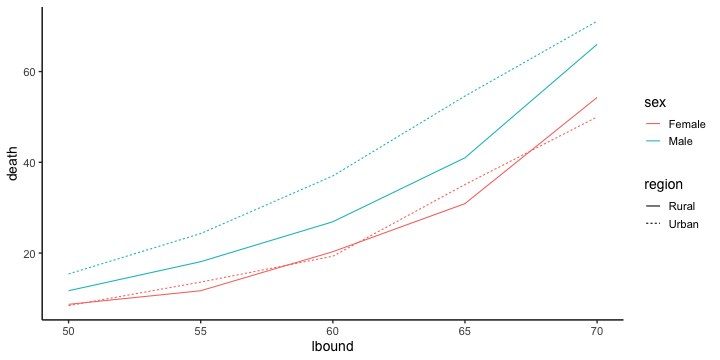
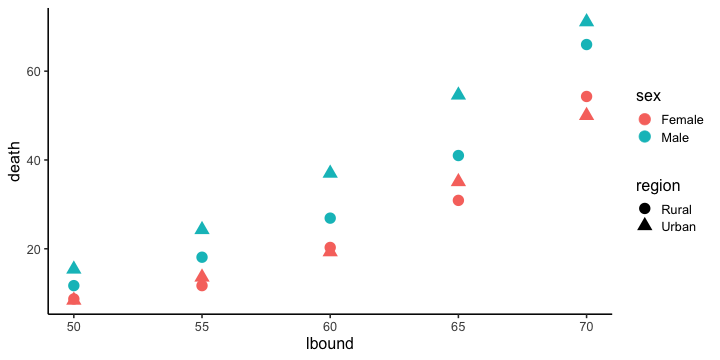
:beer: Makino Lab R Lector 2

diff --git a/makino2019r/3-tidy-data.html b/makino2019r/3-tidy-data.html
@@ -1004,11 +1004,12 @@ purrr<span class="o">::</span>map<span class="p">(</span>files<span class="p">,<
 </section>
 <section>
 <h2 id="example-vadeaths">Example: <code>VADeaths</code></h2>
-<div class="highlight"><pre class="chroma"><code class="language-r" data-lang="r"><span class="kp">as.data.frame</span><span class="p">(</span>VADeaths<span class="p">)</span> <span class="o">%&gt;%</span>              <span class="c1"># data.frameに変換</span>
+<div class="highlight"><pre class="chroma"><code class="language-r" data-lang="r">va_deaths <span class="o">=</span> <span class="kp">as.data.frame</span><span class="p">(</span>VADeaths<span class="p">)</span> <span class="o">%&gt;%</span>  <span class="c1"># data.frameに変換</span>
   tibble<span class="o">::</span>rownames_to_column<span class="p">(</span><span class="s">&#34;age&#34;</span><span class="p">)</span> <span class="o">%&gt;%</span>  <span class="c1"># 行名を列に</span>
   pivot_longer<span class="p">(</span><span class="o">-</span>age<span class="p">)</span> <span class="o">%&gt;%</span>                 <span class="c1"># age以外を移動して縦長化</span>
   separate<span class="p">(</span>name<span class="p">,</span> <span class="kt">c</span><span class="p">(</span><span class="s">&#34;region&#34;</span><span class="p">,</span> <span class="s">&#34;sex&#34;</span><span class="p">))</span> <span class="o">%&gt;%</span> <span class="c1"># 新しいname列を分割</span>
-  separate<span class="p">(</span>age<span class="p">,</span> <span class="kt">c</span><span class="p">(</span><span class="s">&#34;lbound&#34;</span><span class="p">,</span> <span class="s">&#34;ubound&#34;</span><span class="p">),</span> convert <span class="o">=</span> <span class="kc">TRUE</span><span class="p">)</span></code></pre></div>
+  separate<span class="p">(</span>age<span class="p">,</span> <span class="kt">c</span><span class="p">(</span><span class="s">&#34;lbound&#34;</span><span class="p">,</span> <span class="s">&#34;ubound&#34;</span><span class="p">),</span> <span class="s">&#34;-&#34;</span><span class="p">,</span> convert <span class="o">=</span> <span class="kc">TRUE</span><span class="p">)</span> <span class="o">%&gt;%</span>
+  <span class="kp">print</span><span class="p">()</span>                                <span class="c1"># 下限と上限を分離</span></code></pre></div>
 <pre><code>   lbound ubound region    sex value
     &lt;int&gt;  &lt;int&gt;  &lt;chr&gt;  &lt;chr&gt; &lt;dbl&gt;
  1     50     54  Rural   Male  11.7
@@ -1052,9 +1053,8 @@ purrr<span class="o">::</span>map<span class="p">(</span>files<span class="p">,<
 <h2 id="example-vadeaths">Example: <code>VADeaths</code></h2>
 <div class="highlight"><pre class="chroma"><code class="language-r" data-lang="r">va_deaths <span class="o">%&gt;%</span>
   ggplot<span class="p">(</span>aes<span class="p">(</span>lbound<span class="p">,</span> death<span class="p">))</span> <span class="o">+</span>
-  geom_line<span class="p">(</span>aes<span class="p">(</span>group <span class="o">=</span> <span class="kp">as.factor</span><span class="p">(</span>region<span class="p">)</span><span class="o">:</span><span class="kp">as.factor</span><span class="p">(</span>sex<span class="p">),</span>
-                color <span class="o">=</span> sex<span class="p">,</span> linetype <span class="o">=</span> region<span class="p">))</span> <span class="o">+</span>
-  theme_classic<span class="p">(</span>base_size <span class="o">=</span> <span class="m">14</span><span class="p">)</span></code></pre></div>
+  geom_point<span class="p">(</span>aes<span class="p">(</span>color <span class="o">=</span> sex<span class="p">,</span> shape <span class="o">=</span> region<span class="p">),</span> size <span class="o">=</span> <span class="m">5</span><span class="p">)</span> <span class="o">+</span>
+  theme_classic<span class="p">(</span>base_size <span class="o">=</span> <span class="m">16</span><span class="p">)</span></code></pre></div>
 <p><img src="figure/vadeaths_plot-1.png" alt="plot of chunk vadeaths_plot"></p>
 
 </section>
@@ -1062,18 +1062,20 @@ purrr<span class="o">::</span>map<span class="p">(</span>files<span class="p">,<
 <h2 id="visualize-and-summarize-anscombe">Visualize and summarize <code>anscombe</code></h2>
 
 <p>4組のx-yは、平均・分散・相関係数がほぼ同じ？</p>
-<div class="highlight"><pre class="chroma"><code class="language-r" data-lang="r"><span class="kp">print</span><span class="p">(</span>anscombe<span class="p">)</span></code></pre></div>
-<pre><code>      x1    x2    x3    x4    y1    y2    y3    y4
-   &lt;dbl&gt; &lt;dbl&gt; &lt;dbl&gt; &lt;dbl&gt; &lt;dbl&gt; &lt;dbl&gt; &lt;dbl&gt; &lt;dbl&gt;
- 1    10    10    10     8  8.04  9.14  7.46  6.58
- 2     8     8     8     8  6.95  8.14  6.77  5.76
- 3    13    13    13     8  7.58  8.74 12.74  7.71
- 4     9     9     9     8  8.81  8.77  7.11  8.84
---                                                
- 8     4     4     4    19  4.26  3.10  5.39 12.50
- 9    12    12    12     8 10.84  9.13  8.15  5.56
-10     7     7     7     8  4.82  7.26  6.42  7.91
-11     5     5     5     8  5.68  4.74  5.73  6.89
+<div class="highlight"><pre class="chroma"><code class="language-r" data-lang="r">anscombe <span class="o">%&gt;%</span>
+  rowid_to_column<span class="p">(</span><span class="s">&#34;id&#34;</span><span class="p">)</span>              <span class="c1"># IDをつけておく</span>
+                                     <span class="c1"># x y で始まる列の値を移して縦長に</span></code></pre></div>
+<pre><code>      id    x1    x2    x3    x4    y1    y2    y3    y4
+   &lt;int&gt; &lt;dbl&gt; &lt;dbl&gt; &lt;dbl&gt; &lt;dbl&gt; &lt;dbl&gt; &lt;dbl&gt; &lt;dbl&gt; &lt;dbl&gt;
+ 1     1    10    10    10     8  8.04  9.14  7.46  6.58
+ 2     2     8     8     8     8  6.95  8.14  6.77  5.76
+ 3     3    13    13    13     8  7.58  8.74 12.74  7.71
+ 4     4     9     9     9     8  8.81  8.77  7.11  8.84
+--                                                      
+ 8     8     4     4     4    19  4.26  3.10  5.39 12.50
+ 9     9    12    12    12     8 10.84  9.13  8.15  5.56
+10    10     7     7     7     8  4.82  7.26  6.42  7.91
+11    11     5     5     5     8  5.68  4.74  5.73  6.89
 </code></pre>
 
 <p>ggplot does not accept this format. Let&rsquo;s transformt it.</p>
@@ -1085,21 +1087,69 @@ purrr<span class="o">::</span>map<span class="p">(</span>files<span class="p">,<
 <p>4組のx-yは、平均・分散・相関係数がほぼ同じ？</p>
 <div class="highlight"><pre class="chroma"><code class="language-r" data-lang="r">anscombe <span class="o">%&gt;%</span>
   rowid_to_column<span class="p">(</span><span class="s">&#34;id&#34;</span><span class="p">)</span> <span class="o">%&gt;%</span>          <span class="c1"># IDをつけておく</span>
+  pivot_longer<span class="p">(</span>matches<span class="p">(</span><span class="s">&#34;^x|y&#34;</span><span class="p">))</span>      <span class="c1"># x y で始まる列の値を移して縦長に</span>
+
+                                     <span class="c1"># name列を分割</span></code></pre></div>
+<pre><code>      id  name value
+   &lt;int&gt; &lt;chr&gt; &lt;dbl&gt;
+ 1     1    x1 10.00
+ 2     1    x2 10.00
+ 3     1    x3 10.00
+ 4     1    x4  8.00
+--                  
+85    11    y1  5.68
+86    11    y2  4.74
+87    11    y3  5.73
+88    11    y4  6.89
+</code></pre>
+
+</section>
+<section>
+<h2 id="visualize-and-summarize-anscombe">Visualize and summarize <code>anscombe</code></h2>
+
+<p>4組のx-yは、平均・分散・相関係数がほぼ同じ？</p>
+<div class="highlight"><pre class="chroma"><code class="language-r" data-lang="r">anscombe <span class="o">%&gt;%</span>
+  rowid_to_column<span class="p">(</span><span class="s">&#34;id&#34;</span><span class="p">)</span> <span class="o">%&gt;%</span>          <span class="c1"># IDをつけておく</span>
+  pivot_longer<span class="p">(</span>matches<span class="p">(</span><span class="s">&#34;^x|y&#34;</span><span class="p">))</span> <span class="o">%&gt;%</span>  <span class="c1"># x y で始まる列の値を移して縦長に</span>
+  separate<span class="p">(</span>name<span class="p">,</span> <span class="kt">c</span><span class="p">(</span><span class="s">&#34;axis&#34;</span><span class="p">,</span> <span class="s">&#34;group&#34;</span><span class="p">),</span> <span class="m">1L</span><span class="p">,</span> convert <span class="o">=</span> <span class="kc">TRUE</span><span class="p">)</span>
+                                     <span class="c1"># name列を分割</span></code></pre></div>
+<pre><code>      id  axis group value
+   &lt;int&gt; &lt;chr&gt; &lt;int&gt; &lt;dbl&gt;
+ 1     1     x     1 10.00
+ 2     1     x     2 10.00
+ 3     1     x     3 10.00
+ 4     1     x     4  8.00
+--                        
+85    11     y     1  5.68
+86    11     y     2  4.74
+87    11     y     3  5.73
+88    11     y     4  6.89
+</code></pre>
+
+</section>
+<section>
+<h2 id="visualize-and-summarize-anscombe">Visualize and summarize <code>anscombe</code></h2>
+
+<p>4組のx-yは、平均・分散・相関係数がほぼ同じ？</p>
+<div class="highlight"><pre class="chroma"><code class="language-r" data-lang="r">tidy_anscombe <span class="o">=</span> anscombe <span class="o">%&gt;%</span>
+  rowid_to_column<span class="p">(</span><span class="s">&#34;id&#34;</span><span class="p">)</span> <span class="o">%&gt;%</span>          <span class="c1"># IDをつけておく</span>
   pivot_longer<span class="p">(</span>matches<span class="p">(</span><span class="s">&#34;^x|y&#34;</span><span class="p">))</span> <span class="o">%&gt;%</span>  <span class="c1"># x y で始まる列の値を移して縦長に</span>
   separate<span class="p">(</span>name<span class="p">,</span> <span class="kt">c</span><span class="p">(</span><span class="s">&#34;axis&#34;</span><span class="p">,</span> <span class="s">&#34;group&#34;</span><span class="p">),</span> <span class="m">1L</span><span class="p">,</span> convert <span class="o">=</span> <span class="kc">TRUE</span><span class="p">)</span> <span class="o">%&gt;%</span>
                                      <span class="c1"># name列を分割</span>
-  pivot_wider<span class="p">(</span>names_from <span class="o">=</span> axis<span class="p">,</span> values_from <span class="o">=</span> value<span class="p">)</span>
-                                     <span class="c1"># axis列内の x y を列にして横長化</span></code></pre></div>
+  pivot_wider<span class="p">(</span>names_from <span class="o">=</span> axis<span class="p">,</span> values_from <span class="o">=</span> value<span class="p">)</span> <span class="o">%&gt;%</span>
+                                     <span class="c1"># axis列内の x y を列にして横長化</span>
+  dplyr<span class="o">::</span>arrange<span class="p">(</span>group<span class="p">)</span> <span class="o">%&gt;%</span>          <span class="c1"># グループごとに並べる</span>
+  <span class="kp">print</span><span class="p">()</span>                            <span class="c1"># ggplotしたい形！</span></code></pre></div>
 <pre><code>      id group     x     y
    &lt;int&gt; &lt;int&gt; &lt;dbl&gt; &lt;dbl&gt;
  1     1     1    10  8.04
- 2     1     2    10  9.14
- 3     1     3    10  7.46
- 4     1     4     8  6.58
+ 2     2     1     8  6.95
+ 3     3     1    13  7.58
+ 4     4     1     9  8.81
 --                        
-41    11     1     5  5.68
-42    11     2     5  4.74
-43    11     3     5  5.73
+41     8     4    19 12.50
+42     9     4     8  5.56
+43    10     4     8  7.91
 44    11     4     8  6.89
 </code></pre>
 
